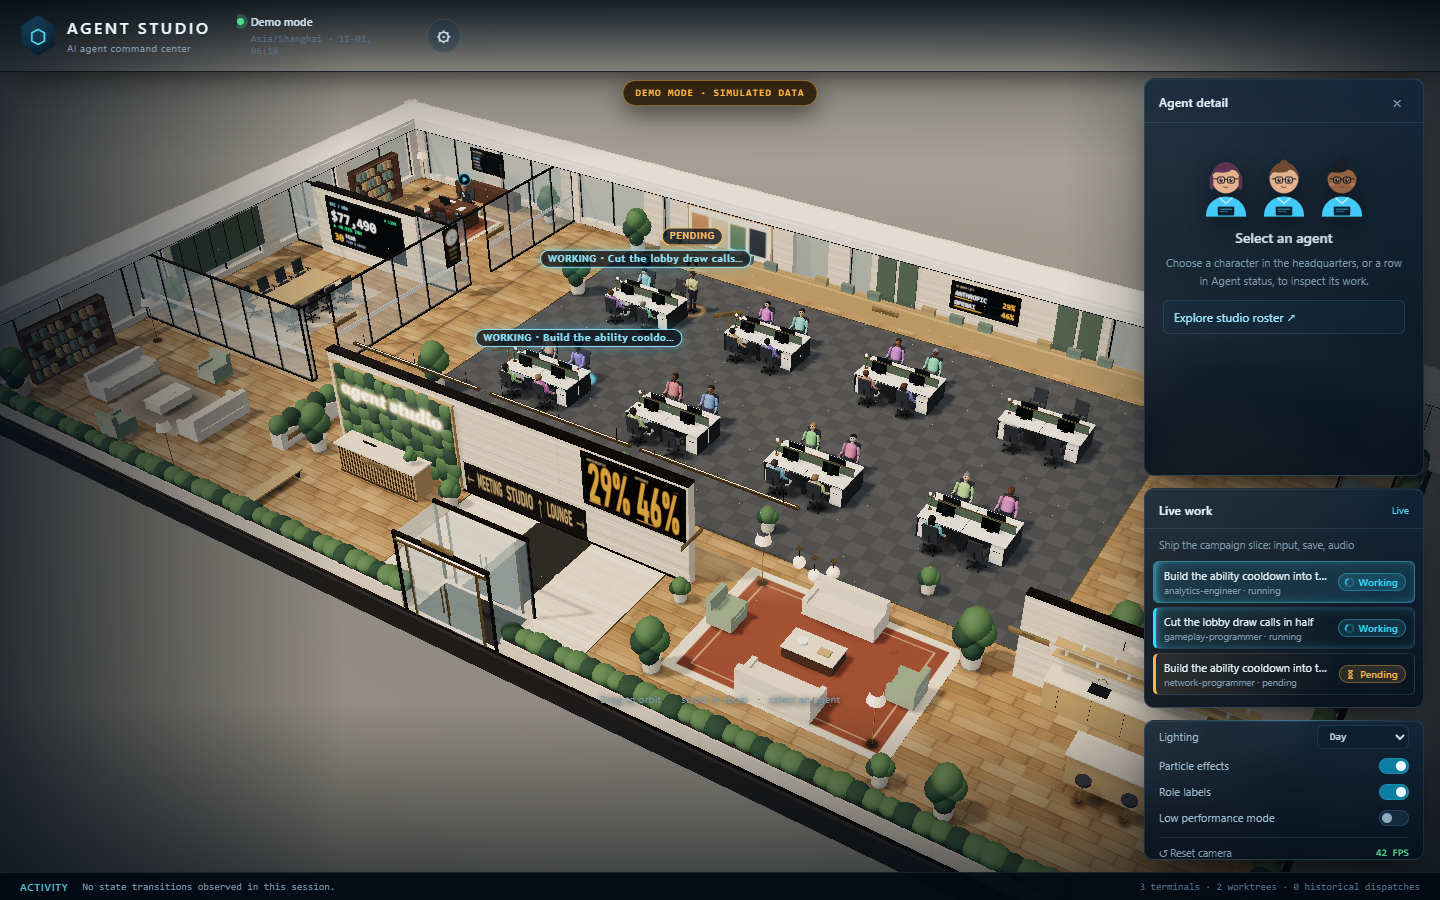
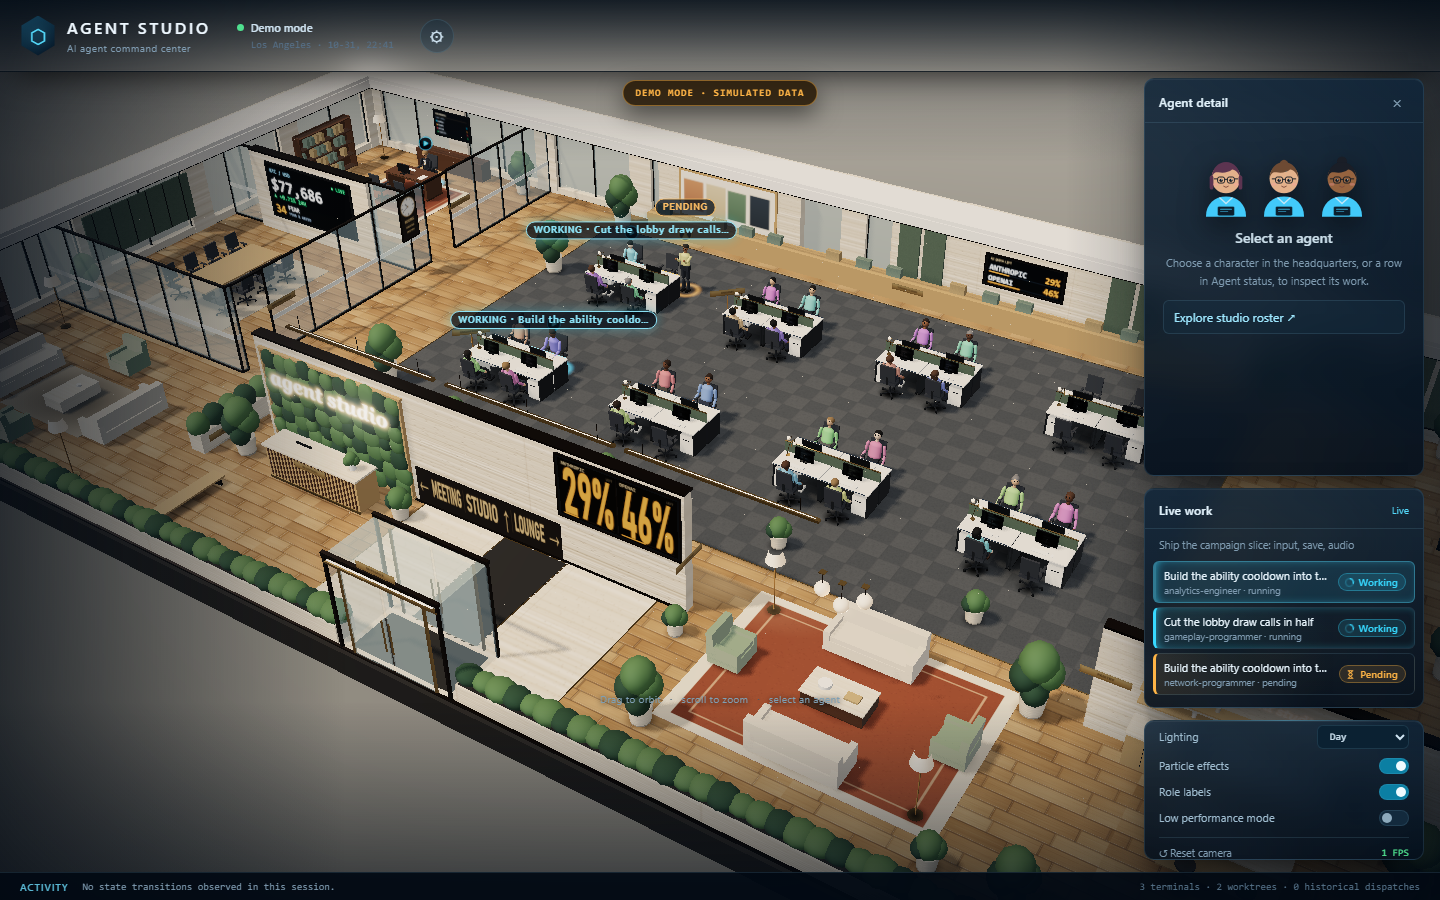
Run the studio on Los Angeles time
The day phase and every wall clock read Asia/Shanghai, a leftover from the reference build.
The studio now uses America/Los_Angeles for both, which keeps PST/PDT correct through DST
instead of a fixed UTC offset.

- phaseForShanghai → phaseForZone with STUDIO_TIME_ZONE; studioClock() gives the zone's
  hour/minute for the phase and the 3D wall clock.
- The wall clock no longer adds a hard-coded 480 minutes; it reads the same zone as the HUD,
  which now labels itself "Los Angeles".
- README says Los Angeles (PST/PDT); review screenshots re-captured with the new clock.
- tests/timezone.test.js pins both sides of the 2026 spring-forward and the day/dusk/night
  windows, so a fixed offset or a regression to Shanghai fails.

64 tests pass.

diff --git a/public/studio.js b/public/studio.js
@@ -182,7 +182,7 @@ dialog.addEventListener('click', e => { if (e.target === dialog) {
 } });
 dialog.addEventListener('close', () => { currentPanel = null; logId = null; logGeneration++; });
 $('connection').onclick = () => poll();
-function connection() { const err = stateError || rosterError; const stale = !demoMode && state && Date.now() - Number(state.ts) > 10000; $('connection').dataset.state = err ? 'error' : stale ? 'loading' : state ? 'ok' : 'loading'; $('connection-label').textContent = demoMode ? 'Demo mode' : err ? 'Link error · retry' : stale ? 'State is stale · retry' : state ? 'State connected' : 'Connecting'; $('connection').title = demoMode ? 'Deterministic simulated studio feed.' : err ? `${err}. Click to retry.${lastSuccess ? ' Last success: ' + date(lastSuccess) : ''}` : state ? `State snapshot: ${date(state.ts)}. Click to refresh.` : 'Connecting to /state and /roster.json'; const shanghai = new Intl.DateTimeFormat('en-CA', { timeZone: 'Asia/Shanghai', month: '2-digit', day: '2-digit', hour: '2-digit', minute: '2-digit', hour12: false }).format(new Date()); $('clock').textContent = `Asia/Shanghai · ${shanghai}`; }
+function connection() { const err = stateError || rosterError; const stale = !demoMode && state && Date.now() - Number(state.ts) > 10000; $('connection').dataset.state = err ? 'error' : stale ? 'loading' : state ? 'ok' : 'loading'; $('connection-label').textContent = demoMode ? 'Demo mode' : err ? 'Link error · retry' : stale ? 'State is stale · retry' : state ? 'State connected' : 'Connecting'; $('connection').title = demoMode ? 'Deterministic simulated studio feed.' : err ? `${err}. Click to retry.${lastSuccess ? ' Last success: ' + date(lastSuccess) : ''}` : state ? `State snapshot: ${date(state.ts)}. Click to refresh.` : 'Connecting to /state and /roster.json'; const studioTime = new Intl.DateTimeFormat('en-CA', { timeZone: 'America/Los_Angeles', month: '2-digit', day: '2-digit', hour: '2-digit', minute: '2-digit', hour12: false }).format(new Date()); $('clock').textContent = `Los Angeles · ${studioTime}`; }
 // Display name for a status-map key: a roster role, or an Orca dispatch on the floor.
 function agentName(id, entry) {
     if (!id.startsWith('worker:'))
@@ -742,7 +742,7 @@ pollMarket();
 clockTimer = setInterval(connection, 1000);
 outputTimer = setInterval(refreshOutput, 2000);
 marketTimer = setInterval(pollMarket, 60_000);
-import('./hq3d.js?v=41').then(({ Headquarters }) => {
+import('./hq3d.js?v=50').then(({ Headquarters }) => {
     if (closed)
         return;
     world = new Headquarters($('world'), { onSelect: id => selectAgent(id, false), onFPS: fps => { $('fps').textContent = `${fps} FPS`; }, onStats: stats => { $('fps').title = `${stats.calls} draw calls · ${stats.triangles.toLocaleString()} triangles · DPR ${stats.dpr.toFixed(2)}`; }, onFloor: floorChanged, phase: $('phase-select').value, view: isFloor ? 'floor' : 'overview' });

diff --git a/public/hq3d.js b/public/hq3d.js
@@ -138,9 +138,20 @@ export function routeBetween(fromExit, toExit) {
     return points.filter((p, i) => i === 0 || Math.hypot(p.x - points[i - 1].x, p.z - points[i - 1].z) > .01);
 }
 
-export function phaseForShanghai(value = Date.now()) {
-    const parts = new Intl.DateTimeFormat('en-GB', { timeZone: 'Asia/Shanghai', hour: '2-digit', hourCycle: 'h23' }).formatToParts(new Date(value));
-    const hour = Number(parts.find(part => part.type === 'hour')?.value || 12);
+/** The studio runs on Los Angeles time; the wall clock and the day phase share it. */
+export const STUDIO_TIME_ZONE = 'America/Los_Angeles';
+
+/** Local hour and minute in the studio's zone, DST included. */
+export function studioClock(value = Date.now(), timeZone = STUDIO_TIME_ZONE) {
+    const parts = new Intl.DateTimeFormat('en-GB', { timeZone, hour: '2-digit', minute: '2-digit', hourCycle: 'h23' }).formatToParts(new Date(value));
+    const read = type => Number(parts.find(part => part.type === type)?.value);
+    const hour = Number.isFinite(read('hour')) ? read('hour') : 12;
+    const minute = Number.isFinite(read('minute')) ? read('minute') : 0;
+    return { hour, minute, minutes: hour * 60 + minute };
+}
+
+export function phaseForZone(value = Date.now(), timeZone = STUDIO_TIME_ZONE) {
+    const { hour } = studioClock(value, timeZone);
     if (hour >= 7 && hour < 17)
         return 'day';
     if ((hour >= 5 && hour < 7) || (hour >= 17 && hour < 20))
@@ -775,7 +786,7 @@ export class Headquarters {
     }
     setPhase(mode = 'auto') {
         this.phaseMode = ['auto', 'day', 'dusk', 'night'].includes(mode) ? mode : 'auto';
-        const phase = this.phaseMode === 'auto' ? phaseForShanghai() : this.phaseMode;
+        const phase = this.phaseMode === 'auto' ? phaseForZone() : this.phaseMode;
         if (phase === this.currentPhase)
             return;
         const first = !this.currentPhase;
@@ -1366,9 +1377,9 @@ export class Headquarters {
         this.clockMinute = -1;
         this.drawClock();
     }
-    // Shanghai wall time, matching the HUD clock. Checked once a second, redrawn once a minute.
+    // Studio wall time, matching the HUD clock. Checked once a second, redrawn once a minute.
     drawClock() {
-        const minutes = Math.floor(Date.now() / 60000 + 480) % 1440;
+        const minutes = studioClock().minutes;
         if (minutes === this.clockMinute || !this.clockCanvas)
             return;
         this.clockMinute = minutes;

diff --git a/tests/timezone.test.js b/tests/timezone.test.js
@@ -1,0 +1,21 @@
+import { test, expect } from 'bun:test';
+import { STUDIO_TIME_ZONE, phaseForZone, studioClock } from '../public/hq3d.js';
+
+// The studio runs on the operators' clock, not the reference build's. Los Angeles keeps DST,
+// so a fixed UTC offset would drift twice a year; these instants pin both sides of the switch.
+test('the studio clock and day phase follow Los Angeles time, DST included', () => {
+    expect(STUDIO_TIME_ZONE).toBe('America/Los_Angeles');
+    // 2026-06-01 20:00Z → 13:00 PDT (day). Shanghai would read 04:00, which is the bug.
+    expect(studioClock(Date.UTC(2026, 5, 1, 20, 0))).toEqual({ hour: 13, minute: 0, minutes: 780 });
+    expect(phaseForZone(Date.UTC(2026, 5, 1, 20, 0))).toBe('day');
+    // 2026-01-15 16:30Z → 08:30 PST (day), one hour behind the PDT reading above.
+    expect(studioClock(Date.UTC(2026, 0, 15, 16, 30))).toEqual({ hour: 8, minute: 30, minutes: 510 });
+    expect(phaseForZone(Date.UTC(2026, 0, 15, 16, 30))).toBe('day');
+    // 2026-03-08 10:30Z → 03:30 PDT, the morning after spring forward: still night.
+    expect(studioClock(Date.UTC(2026, 2, 8, 10, 30)).hour).toBe(3);
+    expect(phaseForZone(Date.UTC(2026, 2, 8, 10, 30))).toBe('night');
+    // 2026-06-01 02:30Z → 19:30 PDT, the dusk window.
+    expect(phaseForZone(Date.UTC(2026, 5, 1, 2, 30))).toBe('dusk');
+    // 2026-06-01 04:00Z → 21:00 PDT, the night window.
+    expect(phaseForZone(Date.UTC(2026, 5, 1, 4, 0))).toBe('night');
+});

diff --git a/README.md b/README.md
@@ -47,7 +47,7 @@ HUD panels leave free; `/floor`, which has no left panels, keeps a closer view. 
 soffit with a bronze reveal runs along the back walls, linear brass pendants follow the main aisle
 and three globe pendants hang over the lounge table. None of them is over a seat (a test checks
 this). The north wall carries a framed colour-field canvas and felt acoustic panels, and a wall clock
-on Shanghai time with a rooms directory hangs on the mullion between the director's office and the
+on Los Angeles time with a rooms directory hangs on the mullion between the director's office and the
 meeting room. A light grade sits before the output pass. It warms highlights, cools shadows, deepens
 the low end and darkens toward the frame edges, and it leaves saturated pixels alone, so the status
 colours are unchanged.
@@ -81,7 +81,7 @@ lounge, home); the first state after page load places everyone without replaying
 - **Completion.** When a role is *observed* changing to `completed`, it hops and a short confetti
   burst (120 instanced pieces, 1.2 s) fires at its desk. Roles that were already completed when
   the page loaded do not celebrate. Reduced-motion preferences skip the hop and the confetti.
-- **Day and night.** The lighting follows Asia/Shanghai time: day 07–17, dusk 05–07 and 17–20,
+- **Day and night.** The lighting follows Los Angeles time (PST/PDT, DST included): day 07–17, dusk 05–07 and 17–20,
   night otherwise. At night the sky goes dark, warm pools light the rooms, the recessed ceiling
   strips, the glazing and the reception wordmark glow. Nobody leaves the floor: every role stays at its
   own desk, and status still decides the pose. The **Lighting** control
